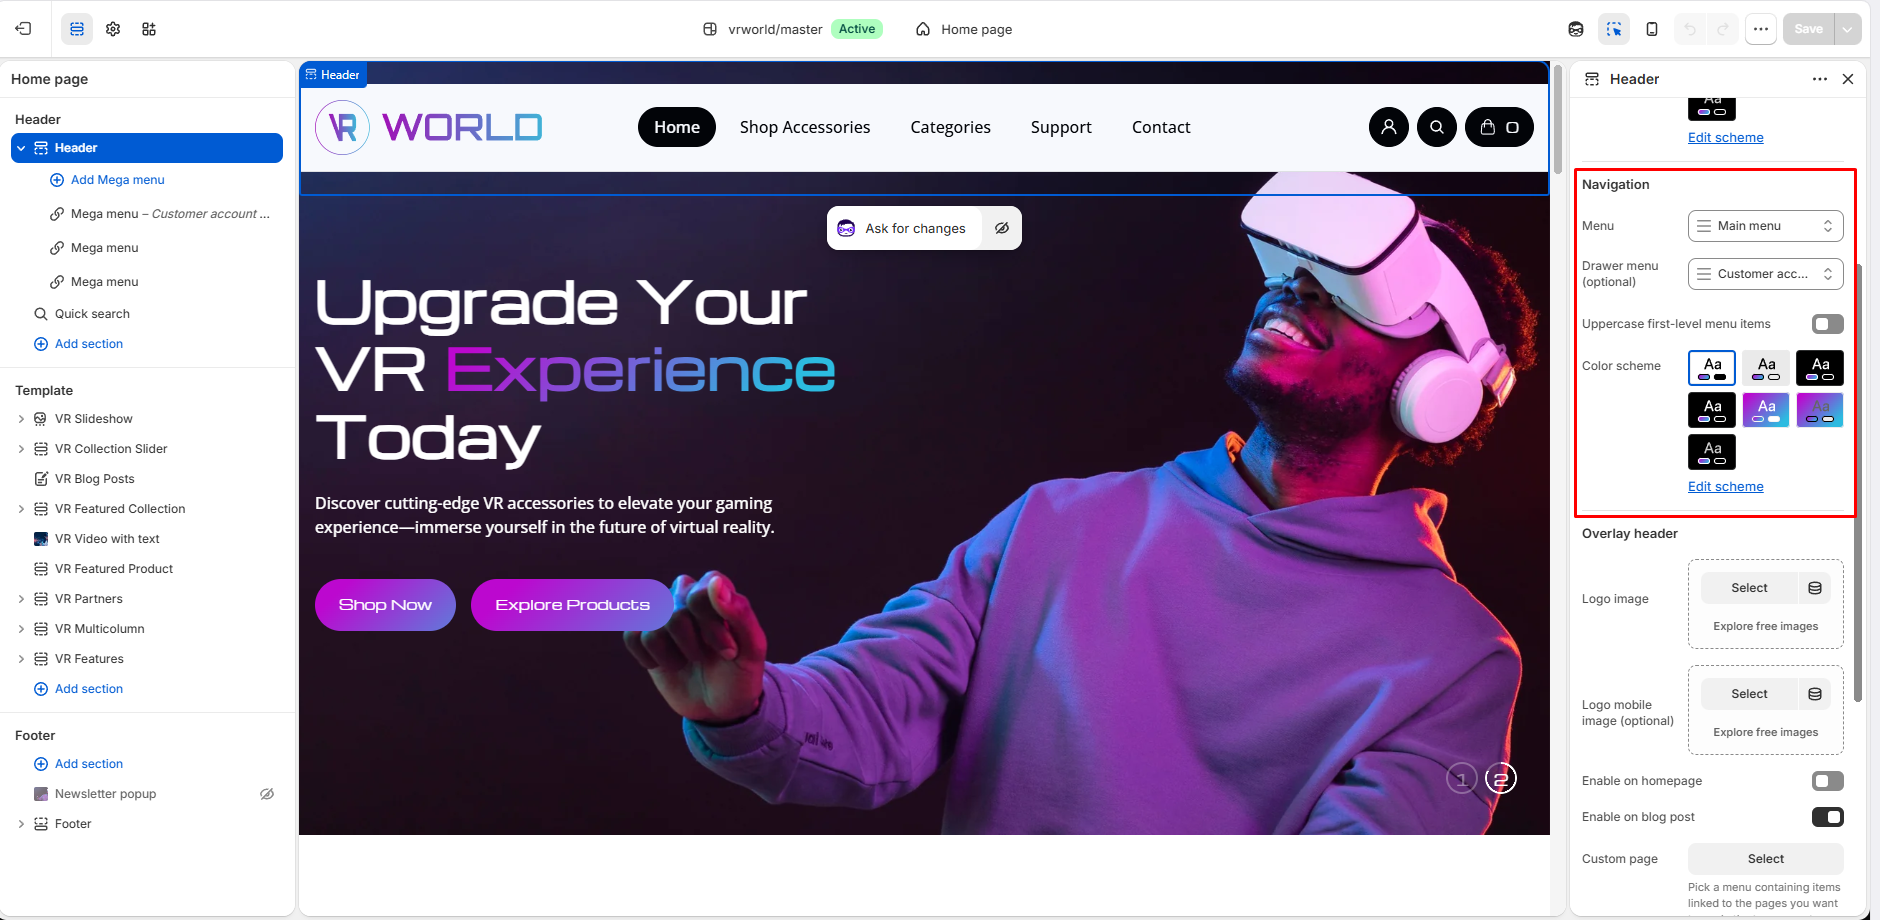
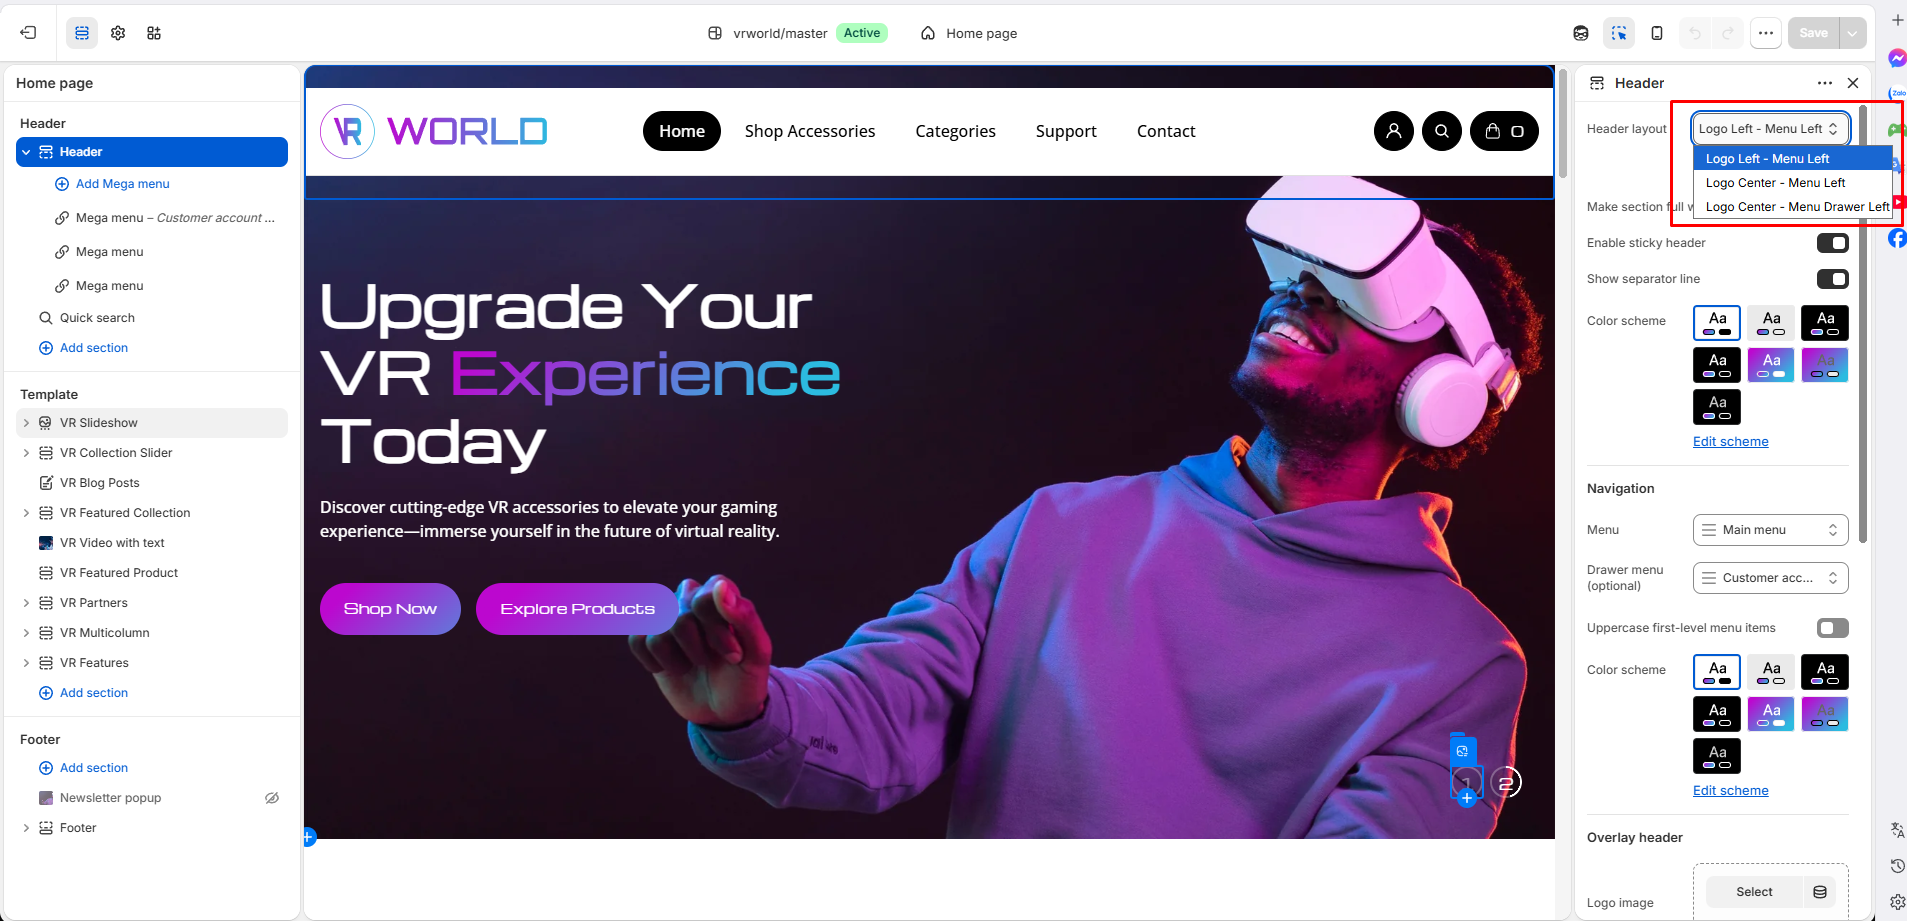
GITBOOK-20: change request with no subject merged in GitBook

diff --git a/partner.md b/partner.md
@@ -1,3 +1,33 @@
 # Partner
 
 <figure><img src=".gitbook/assets/image (23).png" alt=""><figcaption></figcaption></figure>
+
+The VR Partners section is designed to showcase key brands, partners, or vendors that your store collaborates with. By displaying recognized industry logos, this section helps build trust with visitors, highlights the quality of your catalog, and improves navigation by providing a clear brand showcase.
+
+<figure><img src=".gitbook/assets/image (24).png" alt=""><figcaption></figcaption></figure>
+
+### Step-by-Step Customization Guide
+
+Use the sidebar panel on the right side of the Theme Editor to customize the content, typography, layout, and slider behavior for this section.
+
+#### 1. Color Scheme & Styling
+
+* Color scheme: Select from pre-configured theme color palettes to match the section background with your site’s aesthetic.
+* Edit scheme: Click the link below the presets to fine-tune specific color values (background, text, accent colors).
+
+#### 2. Heading Settings
+
+* Heading text: Enter your main title in the text box (e.g., _"Discover the Best in VR Top-Rated Brands"_). You can apply formatting like Bold, _Italic_, or insert hyper-links.
+* Heading size: Adjust the visual scale of the title using the dropdown menu (e.g., _Small_, _Medium_, _Large_).
+
+#### 3. Description Settings
+
+* Description text: Use the rich text editor to add contextual subtext beneath the main title. You can format text, add bullet points, or insert links as needed.
+* Alignment (Desktop & Mobile): Choose how text is aligned (_Left_, _Center_, or _Right_) independently for desktop screens and mobile devices to ensure responsiveness.
+
+#### 4. Slider & Layout Options
+
+* Columns: Drag the slider to set how many brand logos appear per row on desktop (currently set to 6).
+* Infinite loop: Enable this toggle to let the slider loop continuously back to the first item when scrolling.
+* Auto-rotate slides: Enable this toggle to automatically cycle through brand logos without requiring user interaction.
+* Change slides timer: Adjust how long (in seconds) each slide displays before rotating automatically (currently set to 5 seconds).

diff --git a/pages-global-sections/header.md b/pages-global-sections/header.md
@@ -6,7 +6,7 @@ The Header is one of the most important parts of your store—it’s the first e
 
 **Enable sticky header**: Select/deselect to show/hide the sticky header. This sticky header appears when users scroll the page from bottom to top.
 
-<figure><img src="../.gitbook/assets/image.png" alt=""><figcaption></figcaption></figure>
+<figure><img src="../.gitbook/assets/image (1).png" alt=""><figcaption></figcaption></figure>
 
 ### Navigation
 
@@ -16,7 +16,7 @@ The Header is one of the most important parts of your store—it’s the first e
 
 Active **Uppercase first-level menu items** to capitalize the main menu
 
-<figure><img src="../.gitbook/assets/image (1).png" alt=""><figcaption></figcaption></figure>
+<figure><img src="../.gitbook/assets/image (1) (1).png" alt=""><figcaption></figcaption></figure>
 
 ### Overlay header
 

diff --git a/SUMMARY.md b/SUMMARY.md
@@ -22,4 +22,5 @@
 * [Featured collection](featured-collection.md)
 * [Featured product](featured-product.md)
 * [Partner](partner.md)
+* [Video with text](video-with-text.md)
 * [release-notes](release-notes.md)

diff --git a/video-with-text.md b/video-with-text.md
@@ -1,0 +1,3 @@
+# Video with text
+
+<figure><img src=".gitbook/assets/image (25).png" alt=""><figcaption></figcaption></figure>
